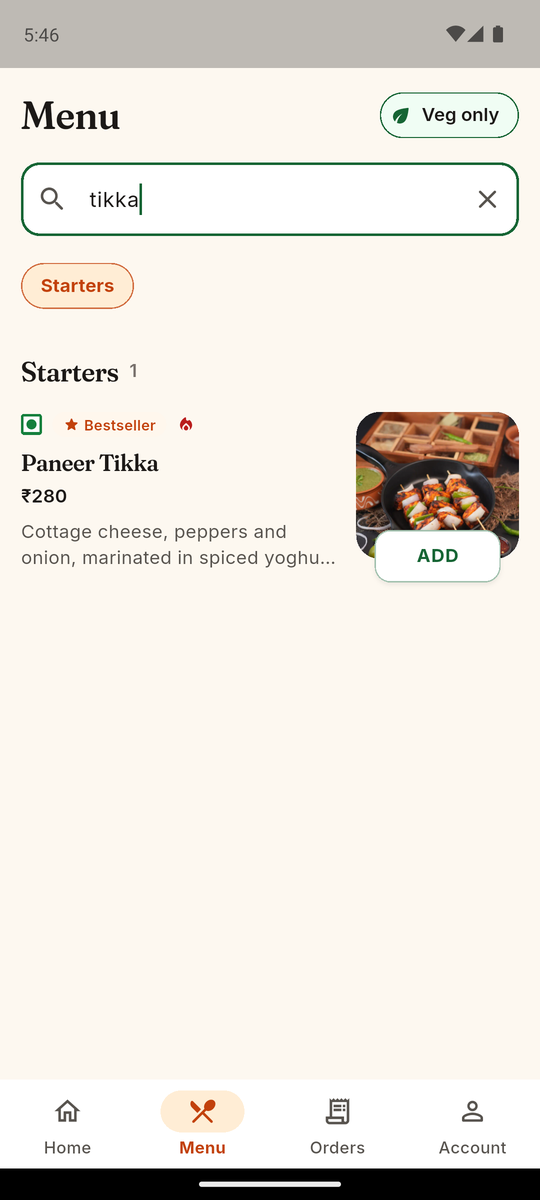
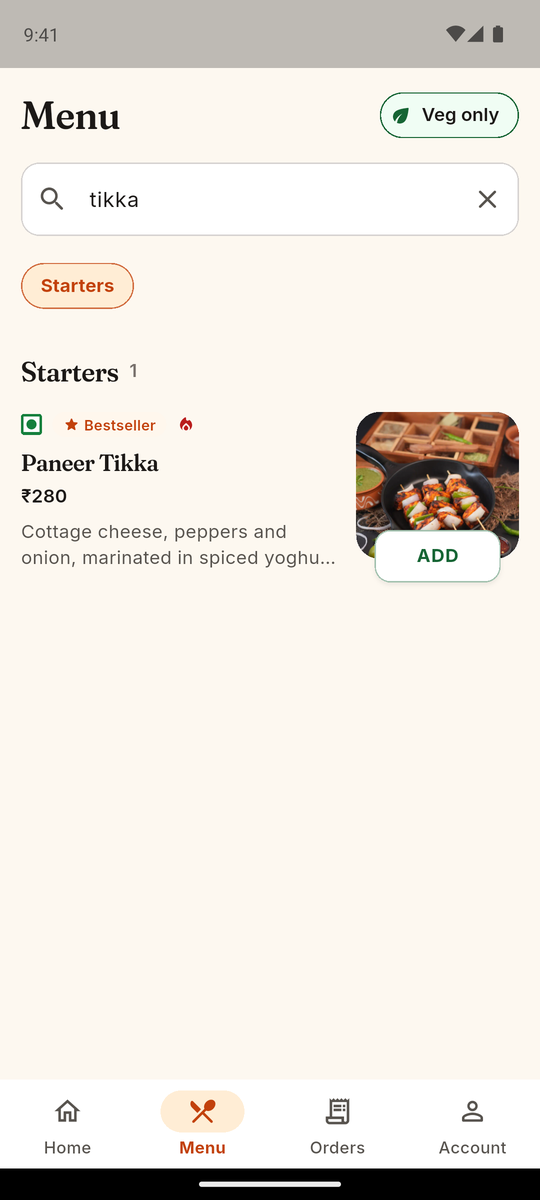
Screenshots for Android and iOS side by side, the device suites and their runner in the README

Changed region(s): [[0.0296, 0.1233, 0.0593, 0.185], [0.9481, 0.1542, 0.9778, 0.185], [0.237, 0.1542, 0.2667, 0.185]]

diff --git a/integration_test/customer_flows_test.dart b/integration_test/customer_flows_test.dart
@@ -57,7 +57,7 @@ void main() {
   testWidgets('home, menu, search, veg only, sections', (tester) async {
     final c = await startApp(tester);
     await waitFor(tester, find.text('What are you craving?'));
-    await waitFor(tester, find.textContaining('Open now'));
+    await waitFor(tester, find.textContaining(RegExp('(Open|Closed) now')));
     expect(find.text('WELCOME50'), findsOneWidget);
     await shot(tester, '01-home');
 

diff --git a/tool/device_suite.py b/tool/device_suite.py
@@ -1,0 +1,105 @@
+"""Runs an on-device suite from integration_test/ and saves a screenshot of the device each time
+the test prints SHOT:<name>.
+
+    python3 tool/device_suite.py <device id> <test file> <shots dir> [flutter test args...]
+
+<device id> is an iOS simulator UDID or an Android emulator serial (emulator-5554). The local
+stack is `docker compose` in the web repo; set DINEWISE_API_DIR to that checkout and
+DINEWISE_COMPOSE_PROJECT to its compose project name.
+
+    OFFLINE=1   watch for the order noted "Please ring the bell" (customer suite, with
+                --dart-define=OFFLINE_CHECK=true) and stop the API for 20 s, then start it.
+    ASAP_NOW=1  after closing time an ASAP order is due at the next opening and waits under
+                "Scheduled for later"; bring ASAP orders placed during the run forward to half
+                an hour from now in the LOCAL database, as if the kitchen were open (kitchen suite).
+"""
+import os
+import subprocess
+import sys
+import threading
+import time
+
+APP = os.path.dirname(os.path.dirname(os.path.abspath(__file__)))
+API = os.environ.get("DINEWISE_API_DIR", os.path.join(os.path.dirname(APP), "dinewise"))
+PROJECT = os.environ.get("DINEWISE_COMPOSE_PROJECT", "dinewise")
+udid, test, shots = sys.argv[1], sys.argv[2], sys.argv[3]
+extra = sys.argv[4:]
+os.makedirs(shots, exist_ok=True)
+
+ADB = os.path.join(os.environ.get("ANDROID_HOME", os.path.expanduser("~/Library/Android/sdk")), "platform-tools", "adb")
+android = udid.startswith("emulator")
+
+
+def demo_mode():
+    """Android's system UI demo mode: a clean, fixed status bar for screenshots."""
+    sh = [ADB, "-s", udid, "shell"]
+    subprocess.run(sh + ["settings", "put", "global", "sysui_demo_allowed", "1"])
+    for extra in (["-e", "command", "enter"],
+                  ["-e", "command", "clock", "-e", "hhmm", "0941"],
+                  ["-e", "command", "battery", "-e", "level", "100", "-e", "plugged", "false"],
+                  ["-e", "command", "network", "-e", "wifi", "show", "-e", "level", "4"],
+                  ["-e", "command", "network", "-e", "mobile", "show", "-e", "level", "4", "-e", "datatype", "none"],
+                  ["-e", "command", "notifications", "-e", "visible", "false"]):
+        subprocess.run(sh + ["am", "broadcast", "-a", "com.android.systemui.demo", *extra], capture_output=True)
+
+
+if android:
+    demo_mode()
+else:
+  subprocess.run(["xcrun", "simctl", "status_bar", udid, "override", "--time", "9:41",
+                "--batteryState", "charged", "--batteryLevel", "100", "--wifiBars", "3",
+                "--cellularMode", "active", "--cellularBars", "4"], check=False)
+
+
+def offline_watcher():
+    while True:
+        out = subprocess.run(
+            ["docker", "compose", "-p", PROJECT, "exec", "-T", "db", "psql", "-U", "dinewise",
+             "-d", "dinewise", "-tAc",
+             "select count(*) from orders where notes='Please ring the bell' and status='PLACED'"],
+            capture_output=True, text=True).stdout.strip()
+        if out and out != "0":
+            time.sleep(6)
+            print(">>> stopping the API", flush=True)
+            subprocess.run(["docker", "compose", "--project-directory", API, "-p", PROJECT, "stop", "web"])
+            time.sleep(20)
+            print(">>> starting the API", flush=True)
+            subprocess.run(["docker", "compose", "--project-directory", API, "-p", PROJECT, "start", "web"])
+            return
+        time.sleep(2)
+
+
+def asap_watcher():
+    """After closing time an ASAP order is due tomorrow and waits under "Scheduled for later". For
+    the kitchen suite, ASAP orders placed during the run are brought forward to half an hour from
+    now in the local database, as if the kitchen were open."""
+    sql = ("update orders set slot_start = date_trunc('minute', now()) + interval '30 min' "
+           "where not scheduled and created_at > now() - interval '30 min' "
+           "and slot_start > now() + interval '55 min' and status = 'PLACED'")
+    while True:
+        subprocess.run(["docker", "compose", "-p", PROJECT, "exec", "-T", "db", "psql", "-U",
+                        "dinewise", "-d", "dinewise", "-tAc", sql], capture_output=True)
+        time.sleep(1)
+
+
+if os.environ.get("ASAP_NOW") == "1":
+    threading.Thread(target=asap_watcher, daemon=True).start()
+
+if os.environ.get("OFFLINE") == "1":
+    threading.Thread(target=offline_watcher, daemon=True).start()
+
+cmd = ["flutter", "test", test, "-d", udid, *extra]
+proc = subprocess.Popen(cmd, cwd=APP, stdout=subprocess.PIPE, stderr=subprocess.STDOUT, text=True)
+for line in proc.stdout:
+    sys.stdout.write(line)
+    sys.stdout.flush()
+    if "SHOT:" in line:
+        name = line.split("SHOT:", 1)[1].strip()
+        path = os.path.join(shots, name + ".png")
+        if android:
+            png = subprocess.run([ADB, "-s", udid, "exec-out", "screencap", "-p"], capture_output=True).stdout
+            open(path, "wb").write(png)
+        else:
+            subprocess.run(["xcrun", "simctl", "io", udid, "screenshot", path], capture_output=True)
+        print(f">>> captured {name}", flush=True)
+sys.exit(proc.wait())

diff --git a/README.md b/README.md
@@ -17,23 +17,36 @@ It talks only to the Dinewise JSON API (`/api/v1`) of the
 
 ## Screenshots
 
-Android (Pixel 7 emulator, against the local stack and the public demo):
+Taken from the app running against the local stack (Android: Pixel 7 emulator; iOS: iPhone 17 Pro and
+iPad Pro 13-inch simulators).
 
-| Home | Menu | Dish sheet | Cart and bill |
-| --- | --- | --- | --- |
-| ![Home](docs/screenshots/android/01-home.png) | ![Menu, search and veg only](docs/screenshots/android/02-menu-search-veg.png) | ![Dish sheet](docs/screenshots/android/03-dish-sheet.png) | ![Cart](docs/screenshots/android/04-cart-bill.png) |
+<table>
+<tr><th></th><th>Android</th><th>iOS</th></tr>
+<tr><td>Home</td><td><img src="docs/screenshots/android/01-home.png" width="260" alt="Home, Android"></td><td><img src="docs/screenshots/ios/01-home.png" width="260" alt="Home, iOS"></td></tr>
+<tr><td>Menu: search and veg only</td><td><img src="docs/screenshots/android/02-menu-search-veg.png" width="260" alt="Menu: search and veg only, Android"></td><td><img src="docs/screenshots/ios/02-menu-search-veg.png" width="260" alt="Menu: search and veg only, iOS"></td></tr>
+<tr><td>Dish sheet: sizes and add-ons</td><td><img src="docs/screenshots/android/03-dish-sheet.png" width="260" alt="Dish sheet: sizes and add-ons, Android"></td><td><img src="docs/screenshots/ios/03-dish-sheet.png" width="260" alt="Dish sheet: sizes and add-ons, iOS"></td></tr>
+<tr><td>Cart and the server's bill</td><td><img src="docs/screenshots/android/04-cart-bill.png" width="260" alt="Cart and the server's bill, Android"></td><td><img src="docs/screenshots/ios/04-cart-bill.png" width="260" alt="Cart and the server's bill, iOS"></td></tr>
+<tr><td>A coupon that does not apply</td><td><img src="docs/screenshots/android/05-cart-coupon-error.png" width="260" alt="A coupon that does not apply, Android"></td><td><img src="docs/screenshots/ios/05-cart-coupon-error.png" width="260" alt="A coupon that does not apply, iOS"></td></tr>
+<tr><td>ASAP or a time slot</td><td><img src="docs/screenshots/android/06-slot-picker.png" width="260" alt="ASAP or a time slot, Android"></td><td><img src="docs/screenshots/ios/06-slot-picker.png" width="260" alt="ASAP or a time slot, iOS"></td></tr>
+<tr><td>Sign in with the demo code</td><td><img src="docs/screenshots/android/07-sign-in-demo-code.png" width="260" alt="Sign in with the demo code, Android"></td><td><img src="docs/screenshots/ios/07-sign-in-demo-code.png" width="260" alt="Sign in with the demo code, iOS"></td></tr>
+<tr><td>Checkout, cash</td><td><img src="docs/screenshots/android/08-checkout.png" width="260" alt="Checkout, cash, Android"></td><td><img src="docs/screenshots/ios/08-checkout.png" width="260" alt="Checkout, cash, iOS"></td></tr>
+<tr><td>Order followed live</td><td><img src="docs/screenshots/android/09-order-live.png" width="260" alt="Order followed live, Android"></td><td><img src="docs/screenshots/ios/09-order-live.png" width="260" alt="Order followed live, iOS"></td></tr>
+<tr><td>My orders</td><td><img src="docs/screenshots/android/10-my-orders.png" width="260" alt="My orders, Android"></td><td><img src="docs/screenshots/ios/10-my-orders.png" width="260" alt="My orders, iOS"></td></tr>
+<tr><td>A slot that just filled up</td><td><img src="docs/screenshots/android/17-slot-full.png" width="260" alt="A slot that just filled up, Android"></td><td><img src="docs/screenshots/ios/17-slot-full.png" width="260" alt="A slot that just filled up, iOS"></td></tr>
+<tr><td>Sold out on the menu</td><td><img src="docs/screenshots/android/15-menu-sold-out.png" width="260" alt="Sold out on the menu, Android"></td><td><img src="docs/screenshots/ios/15-menu-sold-out.png" width="260" alt="Sold out on the menu, iOS"></td></tr>
+<tr><td>Offline: reconnecting</td><td><img src="docs/screenshots/android/19-reconnecting.png" width="260" alt="Offline: reconnecting, Android"></td><td><img src="docs/screenshots/ios/19-reconnecting.png" width="260" alt="Offline: reconnecting, iOS"></td></tr>
+<tr><td>Offline at launch</td><td><img src="docs/screenshots/android/16-offline.png" width="260" alt="Offline at launch, Android"></td><td><img src="docs/screenshots/ios/16-offline.png" width="260" alt="Offline at launch, iOS"></td></tr>
+<tr><td>Account</td><td><img src="docs/screenshots/android/18-account.png" width="260" alt="Account, Android"></td><td><img src="docs/screenshots/ios/18-account.png" width="260" alt="Account, iOS"></td></tr>
+<tr><td>Kitchen mode sign-in</td><td><img src="docs/screenshots/android/20-staff-sign-in.png" width="260" alt="Kitchen mode sign-in, Android"></td><td><img src="docs/screenshots/ios/20-staff-sign-in.png" width="260" alt="Kitchen mode sign-in, iOS"></td></tr>
+<tr><td>Kitchen board on a phone</td><td><img src="docs/screenshots/android/11-kitchen-board-phone.png" width="260" alt="Kitchen board on a phone, Android"></td><td><img src="docs/screenshots/ios/11-kitchen-board-phone.png" width="260" alt="Kitchen board on a phone, iOS"></td></tr>
+<tr><td>Reject with a reason</td><td><img src="docs/screenshots/android/13-kitchen-reject.png" width="260" alt="Reject with a reason, Android"></td><td><img src="docs/screenshots/ios/13-kitchen-reject.png" width="260" alt="Reject with a reason, iOS"></td></tr>
+<tr><td>Mark a dish sold out</td><td><img src="docs/screenshots/android/14-kitchen-sold-out.png" width="260" alt="Mark a dish sold out, Android"></td><td><img src="docs/screenshots/ios/14-kitchen-sold-out.png" width="260" alt="Mark a dish sold out, iOS"></td></tr>
+</table>
 
-| Sign in (demo code) | Checkout | Live order | My orders |
-| --- | --- | --- | --- |
-| ![Sign in](docs/screenshots/android/07-sign-in-demo-code.png) | ![Checkout](docs/screenshots/android/08-checkout.png) | ![Order tracking](docs/screenshots/android/09-order-live.png) | ![My orders](docs/screenshots/android/10-my-orders.png) |
+Kitchen board on a tablet: Android in landscape, and the iPad Pro.
 
-| Kitchen board | Reject with a reason | Sold out | Offline |
-| --- | --- | --- | --- |
-| ![Kitchen board](docs/screenshots/android/11-kitchen-board-phone.png) | ![Reject](docs/screenshots/android/13-kitchen-reject.png) | ![Menu availability](docs/screenshots/android/14-kitchen-sold-out.png) | ![Offline](docs/screenshots/android/16-offline.png) |
-
-Kitchen board on a tablet in landscape:
-
-![Kitchen board on a tablet](docs/screenshots/android/12-kitchen-board-tablet.png)
+<img src="docs/screenshots/android/12-kitchen-board-tablet.png" width="640" alt="Kitchen board on an Android tablet">
+<img src="docs/screenshots/ios/12-kitchen-board-tablet.png" width="420" alt="Kitchen board on an iPad">
 
 ## Run it
 
@@ -65,8 +78,14 @@ exception for `localhost` alone. Release builds talk HTTPS.
 flutter analyze                                   # zero issues, strict lints
 dart format --set-exit-if-changed lib test integration_test
 flutter test                                      # unit + widget tests
-flutter test integration_test \
-  --dart-define=API_BASE_URL=http://10.0.2.2:8082/api/v1   # the happy path on a device
+
+# On a device or simulator, against a running API (the local stack, or the demo)
+flutter test integration_test/app_flow_test.dart -d <device> \
+  --dart-define=API_BASE_URL=http://10.0.2.2:8082/api/v1   # localhost on the iOS simulator
+flutter test integration_test/customer_flows_test.dart -d <device> --dart-define=API_BASE_URL=…
+flutter test integration_test/kitchen_flows_test.dart -d <device> --dart-define=API_BASE_URL=…
+flutter test integration_test/offline_start_test.dart -d <device> \
+  --dart-define=API_BASE_URL=http://localhost:9/api/v1     # nothing listening: offline
 ```
 
 - **Unit tests** cover money formatting (Indian digit grouping, paise), times in Asia/Kolkata,
@@ -79,9 +98,31 @@ flutter test integration_test \
   sheet, the cart and bill, coupon errors, quote problems, slots, sign-in, checkout, a full slot,
   live order tracking (including a dropped stream), cancel, the kitchen board on phone and tablet,
   every move, reject, a stale move, sold out, staff sign-out, and a `401` dropping the session.
-- **The integration test** (`integration_test/app_flow_test.dart`) drives the real app against a
-  running API: menu, cart, sign in with the demo code, a cash order, the kitchen starting it
-  (the customer's screen changes without a refresh), and kitchen mode marking it ready.
+- **Device suites** (`integration_test/`) drive the real app on an Android emulator or an iOS
+  simulator against a running API. Whatever another device would do (the kitchen moving an
+  order, a dish going sold out, eight other customers filling a slot, a sign-out elsewhere) is
+  done straight on the API, and the app has to notice.
+  - `app_flow_test.dart`: menu, cart, demo-code sign-in, a cash order, the kitchen starting it
+    (the customer's screen changes without a refresh), and kitchen mode marking it ready.
+  - `customer_flows_test.dart`: home and sections, search and veg only, the dish sheet's limits
+    and live price, the cart (steppers, pincodes, good and bad coupons, pickup, slots), sign-in
+    errors, cash orders for pickup and to a new address, live tracking, My orders, cancel, a
+    sold-out dish, a full slot, a session revoked elsewhere (`401`), sign-out, and losing the API
+    while following an order (`OFFLINE_CHECK=true`; the host stops the API for 20 seconds).
+  - `kitchen_flows_test.dart`: staff sign-in errors and sign-out, the demo buttons, new orders
+    arriving live, every move (Start cooking, Mark ready, Collected, Out for delivery,
+    Delivered), reject with a one-tap and a typed reason, the sold-out switch, and the staff and
+    customer sessions staying apart. Runs on phones (tabs) and tablets (columns).
+  - `offline_start_test.dart`: launching with no API to reach.
+
+  `tool/device_suite.py` runs a suite and saves a device screenshot at each `shot()` in the test
+  (that is how `docs/screenshots/` is made). It can also stop the API mid-run for the offline
+  check and, after closing time, bring the run's ASAP orders forward in the local database so
+  they reach the kitchen's live columns instead of "Scheduled for later".
+
+Verified on Android (Pixel 7 emulator, Android 13) and iOS (iPhone 17 Pro, iPad Air 11-inch and
+iPad Pro 13-inch simulators, iOS 26.3): every suite passes against the local stack, and the
+end-to-end test also passes against the public demo API on both platforms.
 
 CI (GitHub Actions) runs format, analyze (infos fail the build), the tests with coverage, and an
 Android debug build.
@@ -151,6 +192,9 @@ Things found while building against the v1 contract:
 - `/kitchen/board` has no "today" boundary: on a local stack left running overnight, yesterday's
   unfinished orders stay on the board (shown as "1 d late"). The public demo resets itself, so
   it does not show there.
+- After closing time an ASAP order is due at the next opening, so it shows under "Scheduled for
+  later" on the board until an hour before then. That is the contract working as written; it
+  only matters when testing the kitchen at night.
 - The server closes idle keep-alive connections after a few seconds, which can surface as
   "Connection closed before full header was received" on the next request over a reused
   connection. The client retries once in exactly that case (the server never saw the request).
